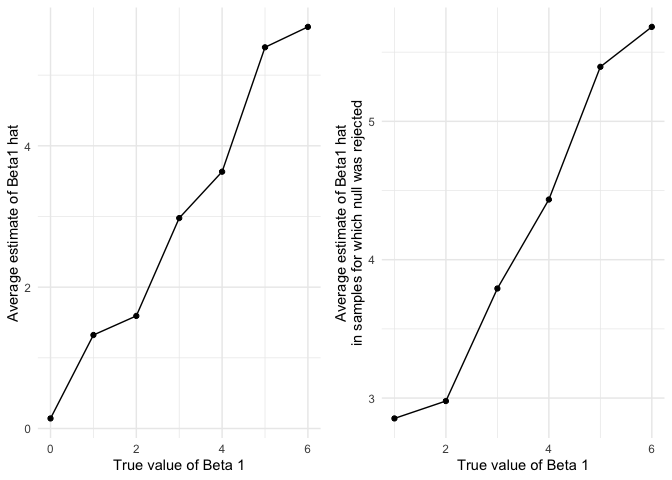
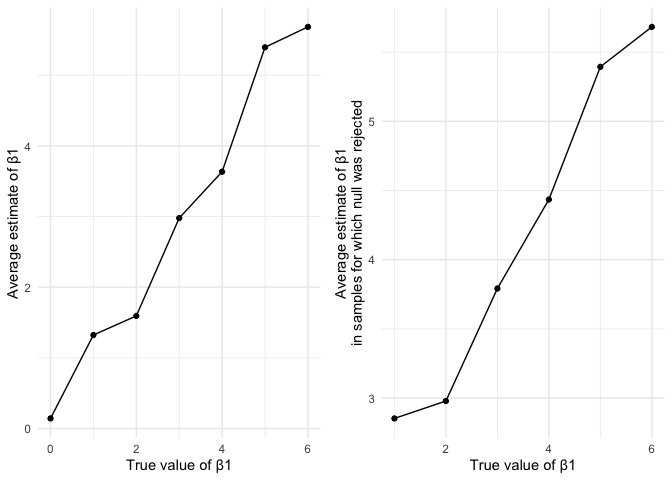
changed the style of equations a bit

diff --git a/p8105_hw5_mk4208.md b/p8105_hw5_mk4208.md
@@ -102,20 +102,18 @@ observations for the control arm.
 The following code chunk writes a function `sim_regression` with the
 following design elements:
 
-  - Fixed \(n\) = 30
-  - Fixed \(x_{i1}\) draws from a standard Normal distribution
-  - Fixed \(\beta_0\) = 2
-  - Fixed \(\sigma^2\) = 50
+  - Fixed n = 30
+  - Fixed xi1 draws from a standard Normal distribution
+  - Fixed β0 = 2
+  - Fixed σ2 = 50
 
 The function takes the argument `beta1`.
 
-  - By default, the function sets \(\beta_1\) = 0 and generates a
-    dataset from the model
-    \(y_i = \beta_0 + \beta_1x_{i1} + \epsilon_i\) with
-    \(\epsilon_i \sim N[0, \sigma^2]\).
+  - By default, the function sets β1 = 0 and generates a dataset from
+    the model y = β0 + β1x + ϵ with ϵ ∼ N\[0,σ2\].
 
-Additionally, it saves the \(\hat\beta_1\) and the p-value arising from
-a test of \(H: \beta_1 = 0\) using \(\alpha = 0.05\).
+Additionally, it saves the β1 estimate and the p-value arising from a
+test of H: β1 = 0 using α = 0.05.
 
 ``` r
 set.seed(10)
@@ -138,7 +136,7 @@ sim_regression = function(beta1 = 0) {
 ```
 
 The following code chunk generates 10000 datasets using the
-`sim_regression` function for \(\beta_1 = \{0, 1, 2, 3, 4, 5, 6\}\).
+`sim_regression` function for β1 = {0, 1, 2, 3, 4, 5, 6}.
 
 ``` r
 sim_results = tibble(beta_1 = c(0, 1, 2, 3, 4, 5, 6)) %>% 
@@ -149,7 +147,7 @@ sim_results = tibble(beta_1 = c(0, 1, 2, 3, 4, 5, 6)) %>%
 ```
 
 The following plot shows the proportion of times the null was rejected
-on the y-axis and the true value of beta 1 on the x-axis.
+on the y-axis and the true value of β1 on the x-axis.
 
 The association between the two show us that as the effect size
 increases, the power also increases, when the sample size and alpha
@@ -164,24 +162,23 @@ sim_results %>%
   ggplot(aes(x = beta_1, y = percent)) +
   geom_point() + 
   geom_line() + 
-  xlab("True value of Beta 1") +
+  xlab("True value of β1") +
   ylab("Proportion of times the null was rejected") +
   theme_minimal()
 ```
 
 ![](p8105_hw5_mk4208_files/figure-gfm/unnamed-chunk-10-1.png)<!-- -->
 
-The following plots shows the average estimate of \(\hat\beta_1\) on the
-y-axis and the true value of \(\beta_1\) on the x-axis. The second plot
-shows the average estimate of \(\hat\beta_1\) **only in samples for
-which the null was rejected** on the y-axis and the true value of
-\(\beta_1\) on the x-axis.
+The following plots shows the average estimate of β1 estimate on the
+y-axis and the true value of β1 on the x-axis. The second plot shows the
+average estimate of β1 estimate **only in samples for which the null was
+rejected** on the y-axis and the true value of β1 on the x-axis.
 
-Based on this, we can see that the sample average of \(\hat\beta_1\)
-across the tests for which the null is rejected is not equal to the true
-value of \(\beta_1\). This is because as the effect size increases,
-power also increase. Hence, we can see that the sample beta deviates
-from the true beta among the samples for which the null was rejected.
+Based on this, we can see that the sample average of β1 estimate across
+the tests for which the null is rejected is not equal to the true value
+of β1. This is because as the effect size increases, power also
+increase. Hence, we can see that the sample beta deviates from the true
+beta among the samples for which the null was rejected.
 
 ``` r
 p1 = sim_results %>% 
@@ -190,8 +187,8 @@ p1 = sim_results %>%
   ggplot(aes(x = beta_1, y = mean)) + 
   geom_point() + 
   geom_line() + 
-  xlab("True value of Beta 1") + 
-  ylab("Average estimate of Beta1 hat") +
+  xlab("True value of β1") + 
+  ylab("Average estimate of β1") +
   theme_minimal()
 
 p2 = sim_results %>% 
@@ -201,8 +198,8 @@ p2 = sim_results %>%
   ggplot(aes(x = beta_1, y = mean)) + 
   geom_point() +
   geom_line() +
-  xlab("True value of Beta 1") + 
-  ylab("Average estimate of Beta1 hat\nin samples for which null was rejected") + 
+  xlab("True value of β1") + 
+  ylab("Average estimate of β1\nin samples for which null was rejected") + 
   theme_minimal()
 
 p1 + p2
